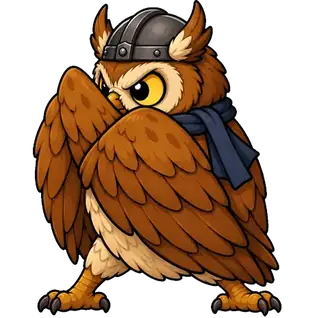
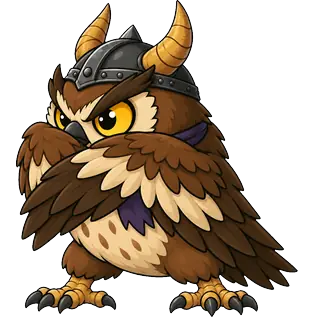
貓頭鷹夜哨：受傷、防禦兩張照新待機圖重生（舊圖沒有角、顏色偏淺，跟待機攻擊判若兩隻）

diff --git a/tools/make_fix_0915_jobs.py b/tools/make_fix_0915_jobs.py
@@ -837,6 +837,23 @@ elif batch in ('e1', 'e2'):
         t = swap(t, 'Save the image as monster_shadow_cat_down.png', f'Save the image as {fid}', fid)
         jobs[fid] = {'prompt': t, 'ref': ref}
 
+elif batch == 'i':
+    # --- 貓頭鷹受傷、防禦（2026-09-15 傍晚，使用者：「有問題你都重生」）：舊圖是沒有角的頭盔、顏色也偏淺，
+    #     跟新的待機／攻擊（有兩支角、紫圍巾）判若兩隻。附**新的待機圖**當參考，提示詞把角與圍巾寫死。
+    #     防禦圖原本是 build_block_queue.py 現場組的（沒有留工單），這裡照它的 BLOCK_POSE／BLOCK_TAIL 再組一次 ----
+    from build_block_queue import BLOCK_POSE, BLOCK_TAIL  # noqa: E402
+    ref = white_ref(PUB / 'assets' / 'monsters' / 'owl_sentry_idle.webp', MONSTER_REFS / 'owl_sentry_idle.png')
+    same = ('The creature: exactly the monster shown in the reference image. It wears the SAME small iron helmet '
+            'with TWO curved horns and the SAME dark purple scarf as the reference, with the same brown feather '
+            'colours and markings and the same huge golden eyes. Before finishing, compare with the reference: '
+            'if the horns, the scarf or the feather colours are missing or changed, it is wrong.')
+    hurt = load('monster_hurt_rest.json')
+    fid = 'monster_owl_sentry_hurt.png'
+    t = swap(prompt_of(hurt[fid]), 'The creature: exactly the monster shown in the reference image.', same, fid)
+    jobs[fid] = {'prompt': t, 'ref': ref}
+    fid = 'monster_owl_sentry_block.png'
+    jobs[fid] = {'prompt': same + BLOCK_POSE + BLOCK_TAIL.format(name=fid), 'ref': ref}
+
 else:
     raise SystemExit(
         '要指定批次：\n'
